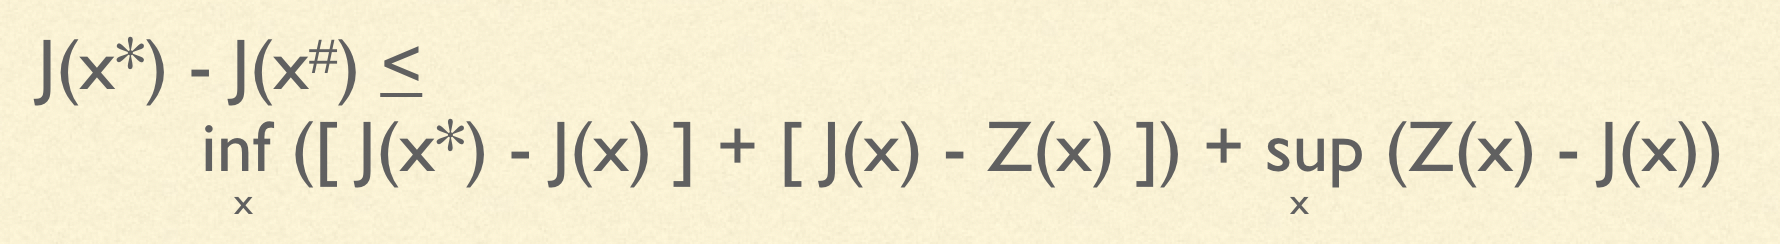
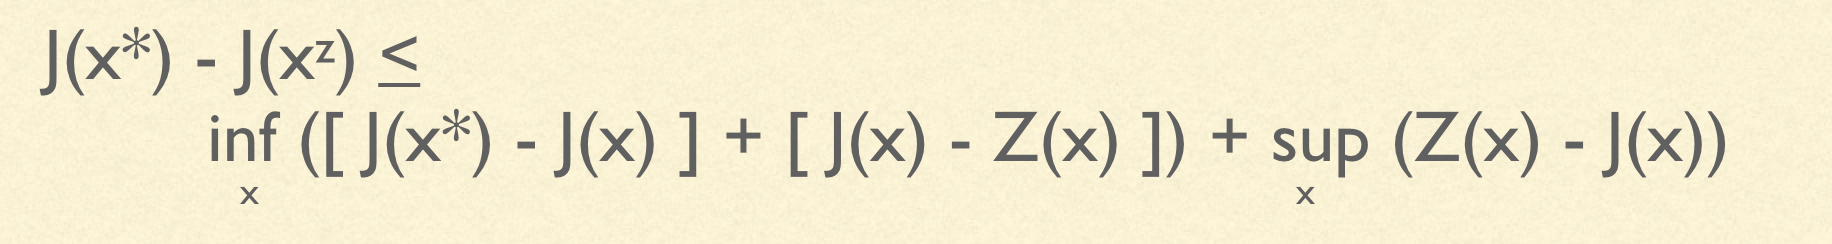
editing new post

diff --git a/_posts/2020-11-30-conceptual-fundamentals-of-offline-rl.md b/_posts/2020-11-30-conceptual-fundamentals-of-offline-rl.md
@@ -79,7 +79,7 @@ For example, I might survey several of my friends who played sports last spring,
 Then, I pick the sport with the highest average rating (according to my friends).
 
 We wish to know: if the decision-maker chooses the $x \in X$ which maximizes $Z$, will my score be high according to $J$?
-Concretely, if we let $x^{\ast} = argmax_{x \in X} J(x)$ and $x^{\mypound} = argmax_{x \in X} Z(x)$, what will be the regret, $J(x^{\ast}) - J(x^{\mypound})$?
+Concretely, if we let $x^{\ast} = argmax_{x \in X} J(x)$ and $x^{z} = argmax_{x \in X} Z(x)$, what will be the regret, $J(x^{\ast}) - J(x^{z})$?
 Clearly, this regret will be expressed in terms of the similarity between the real objective and the proxy objective.
 If J and Z are identical, then the regret will be zero.
 But if they are not identical, then the relationship becomes more interesting:
